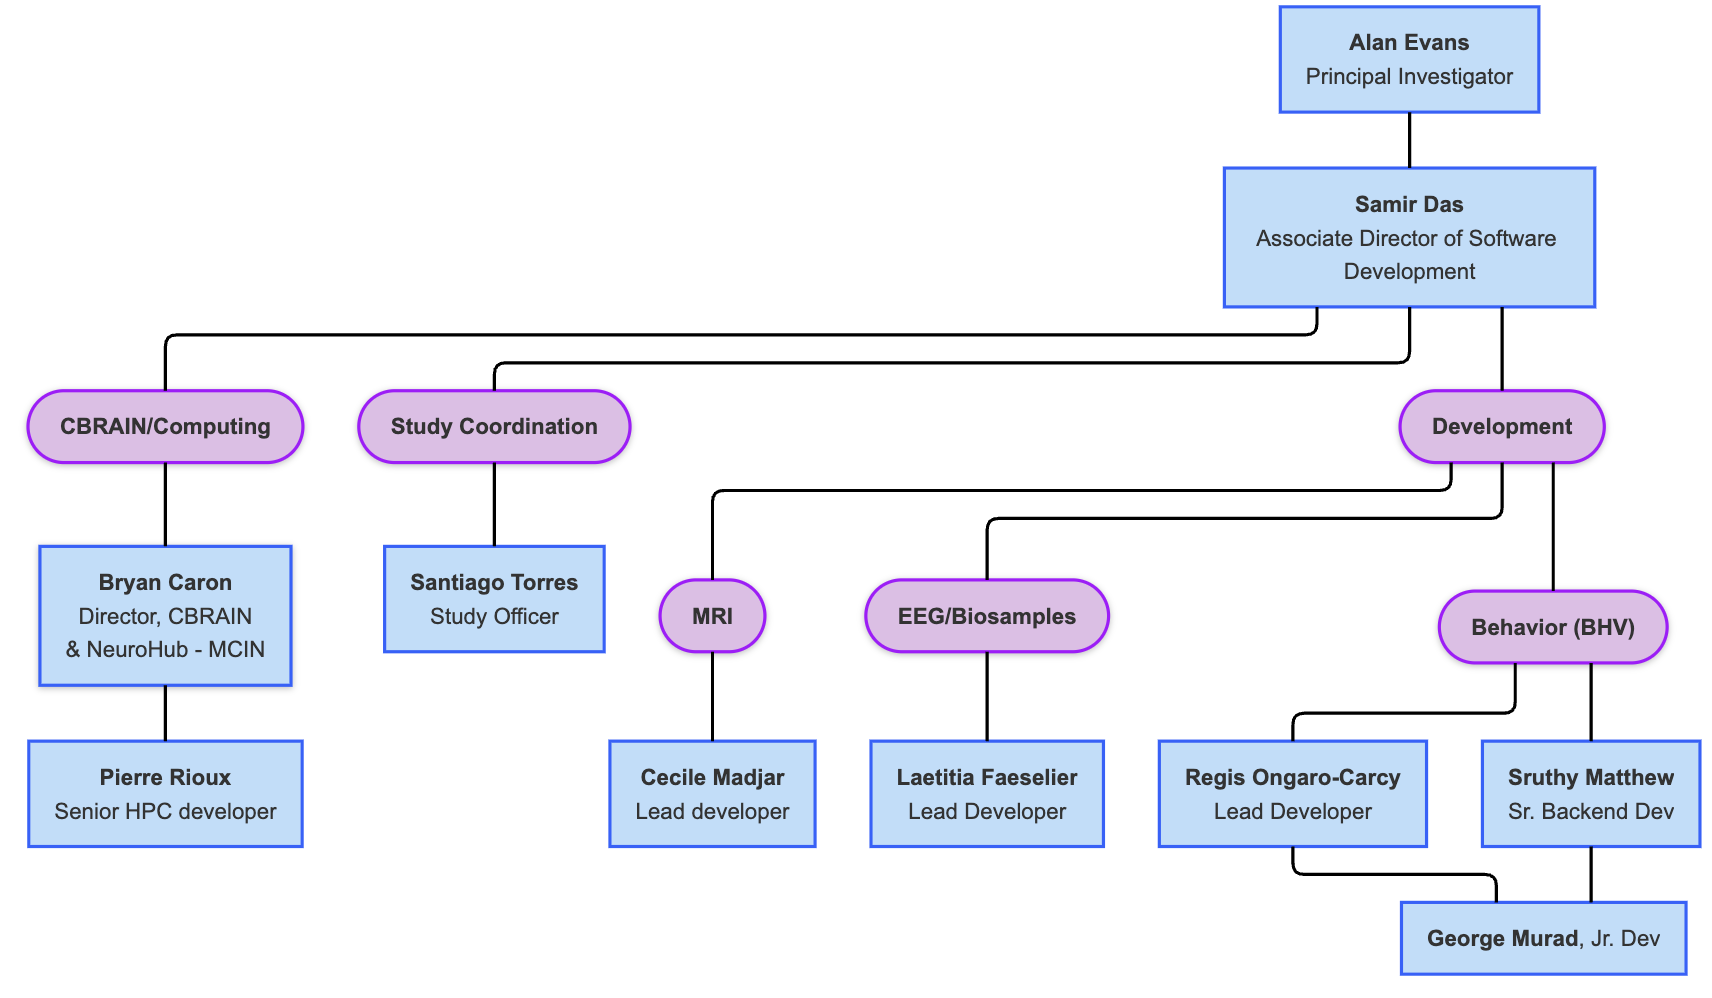
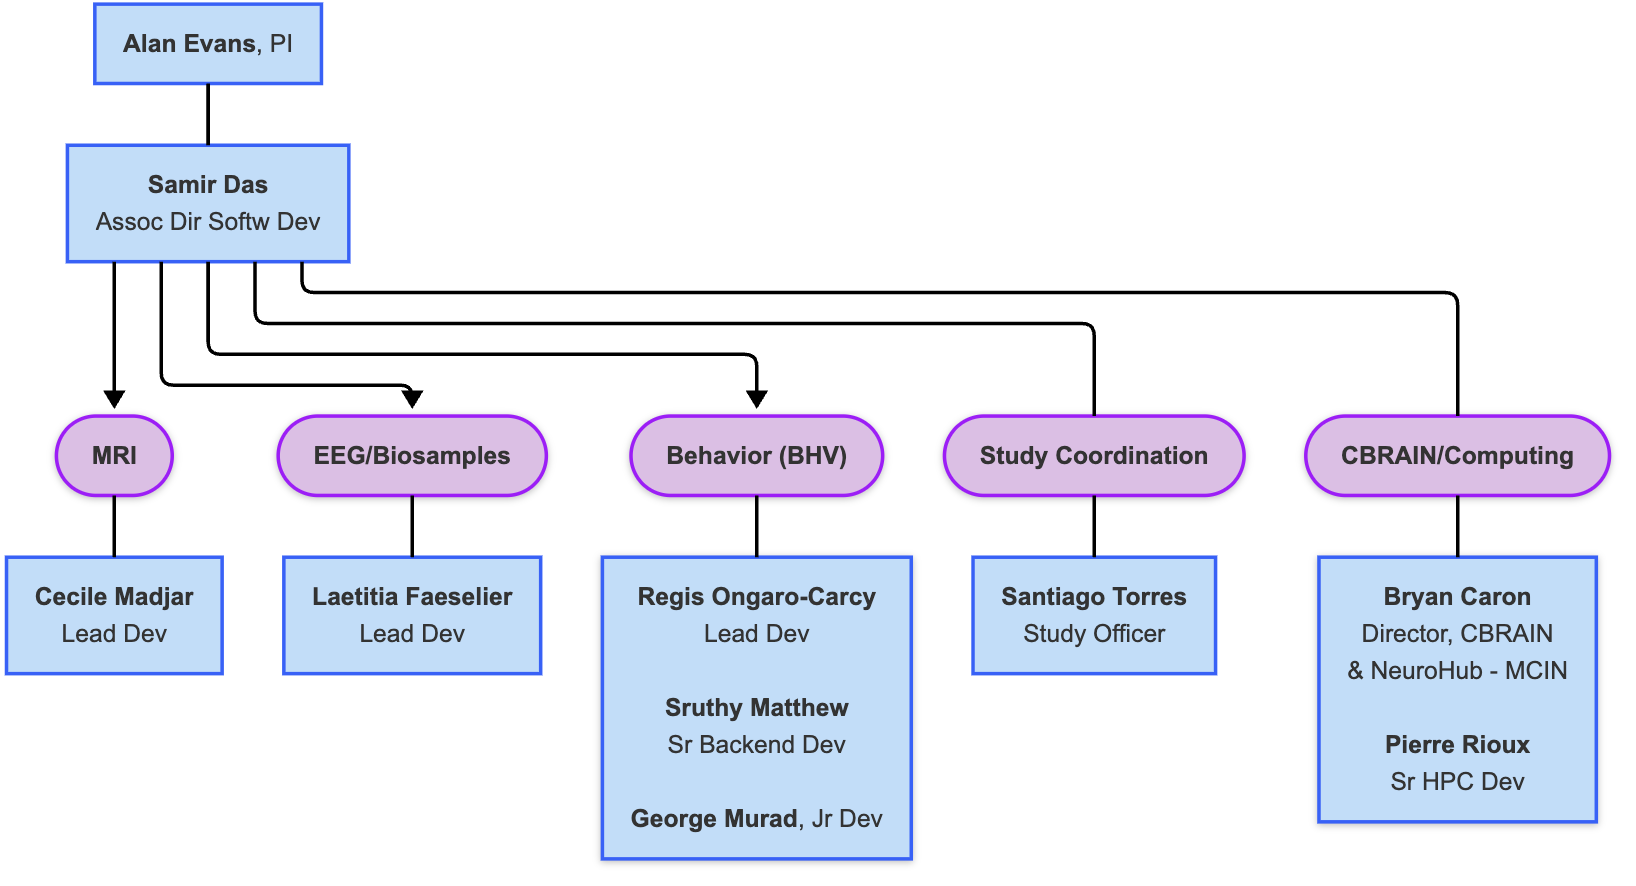
loris update

diff --git a/docs/orgcharts_alt.md b/docs/orgcharts_alt.md
@@ -68,42 +68,32 @@ config:
   layout: elk
 ---
 flowchart TB
-    A["<b>Alan Evans</b><br>Principal Investigator"] --- nl["<b>Samir Das</b><br>Associate Director of Software Development"]
-    nl --- n9(["<b>Study Coordination</b>"]) & C(["<b>CBRAIN/Computing</b>"]) & B(["<b>Development</b>"])
-    C --- n12["<b>Bryan Caron</b><br>Director, CBRAIN<br>&amp; NeuroHub - MCIN"]
+    A["<b>Alan Evans</b>, PI"] --- nl["<b>Samir Das</b><br>Assoc Dir Softw Dev"]
+    nl --- n9(["<b>Study Coordination</b>"]) & C(["<b>CBRAIN/Computing</b>"])
+    C --- n12["<b>Bryan Caron</b><br>Director, CBRAIN<br>&amp; NeuroHub - MCIN<br><br><b>Pierre Rioux</b><br>Sr HPC Dev"]
     n9 --- E["<b>Santiago Torres</b><br>Study Officer"]
-    B --- F(["<b>Behavior (BHV)</b>"]) & H(["<b>EEG/Biosamples</b>"]) & G(["<b>MRI</b>"])
-    F --- I["<b>Regis Ongaro-Carcy</b><br>Lead Developer"] & n10["<b>Sruthy Matthew</b><br>Sr. Backend Dev"]
-    G --- L["<b>Cecile Madjar</b><br>Lead developer"]
-    H --- M["<b>Laetitia Faeselier</b><br>Lead Developer"]
-    n10 --- n11["<b>George Murad</b>, Jr. Dev"]
-    I --- n11
-    n12 --- D["<b>Pierre Rioux</b><br>Senior HPC developer"]
+    F(["<b>Behavior (BHV)</b>"]) --- I["<b>Regis Ongaro-Carcy</b><br>Lead Dev<br><br><b>Sruthy Matthew</b><br>Sr Backend Dev<br><br><b>George Murad</b>, Jr Dev"]
+    G(["<b>MRI</b>"]) --- L["<b>Cecile Madjar</b><br>Lead Dev"]
+    H(["<b>EEG/Biosamples</b>"]) --- M["<b>Laetitia Faeselier</b><br>Lead Dev"]
+    nl --> G & H & F
+    I@{ shape: rect}
     style A stroke:#2962FF,fill:#BBDEFB
     style nl stroke:#2962FF,fill:#BBDEFB
     style n9 stroke:#AA00FF,fill:#E1BEE7
     style C stroke:#AA00FF,fill:#E1BEE7
-    style B stroke:#AA00FF,fill:#E1BEE7
     style n12 stroke:#2962FF,fill:#BBDEFB
     style E stroke:#2962FF,fill:#BBDEFB
     style F stroke:#AA00FF,fill:#E1BEE7
-    style H stroke:#AA00FF,fill:#E1BEE7
-    style G stroke:#AA00FF,fill:#E1BEE7
     style I stroke:#2962FF,fill:#BBDEFB
-    style n10 stroke:#2962FF,fill:#BBDEFB
+    style G stroke:#AA00FF,fill:#E1BEE7
     style L stroke:#2962FF,fill:#BBDEFB
+    style H stroke:#AA00FF,fill:#E1BEE7
     style M stroke:#2962FF,fill:#BBDEFB
-    style n11 stroke:#2962FF,fill:#BBDEFB
-    style D stroke:#2962FF,fill:#BBDEFB
     click A "#evans"
     click nl "#das"
     click E "#torres"
-    click I "#ongaro-carcy"
-    click n10 "#matthew"
     click L "#madjar"
     click M "#faeselier"
-    click n11 "#murad"
-    click D "#rioux"
 ```
 
 
